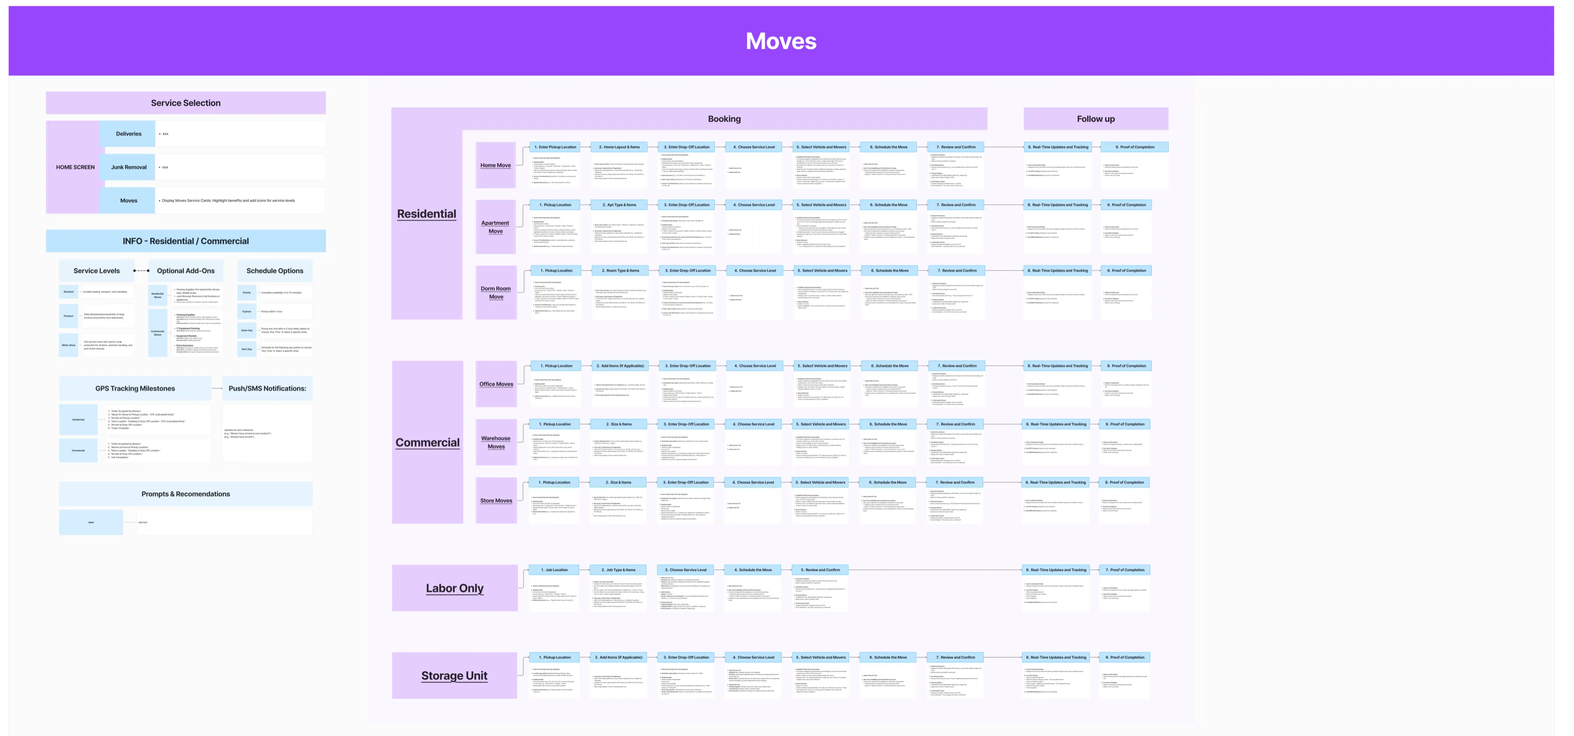
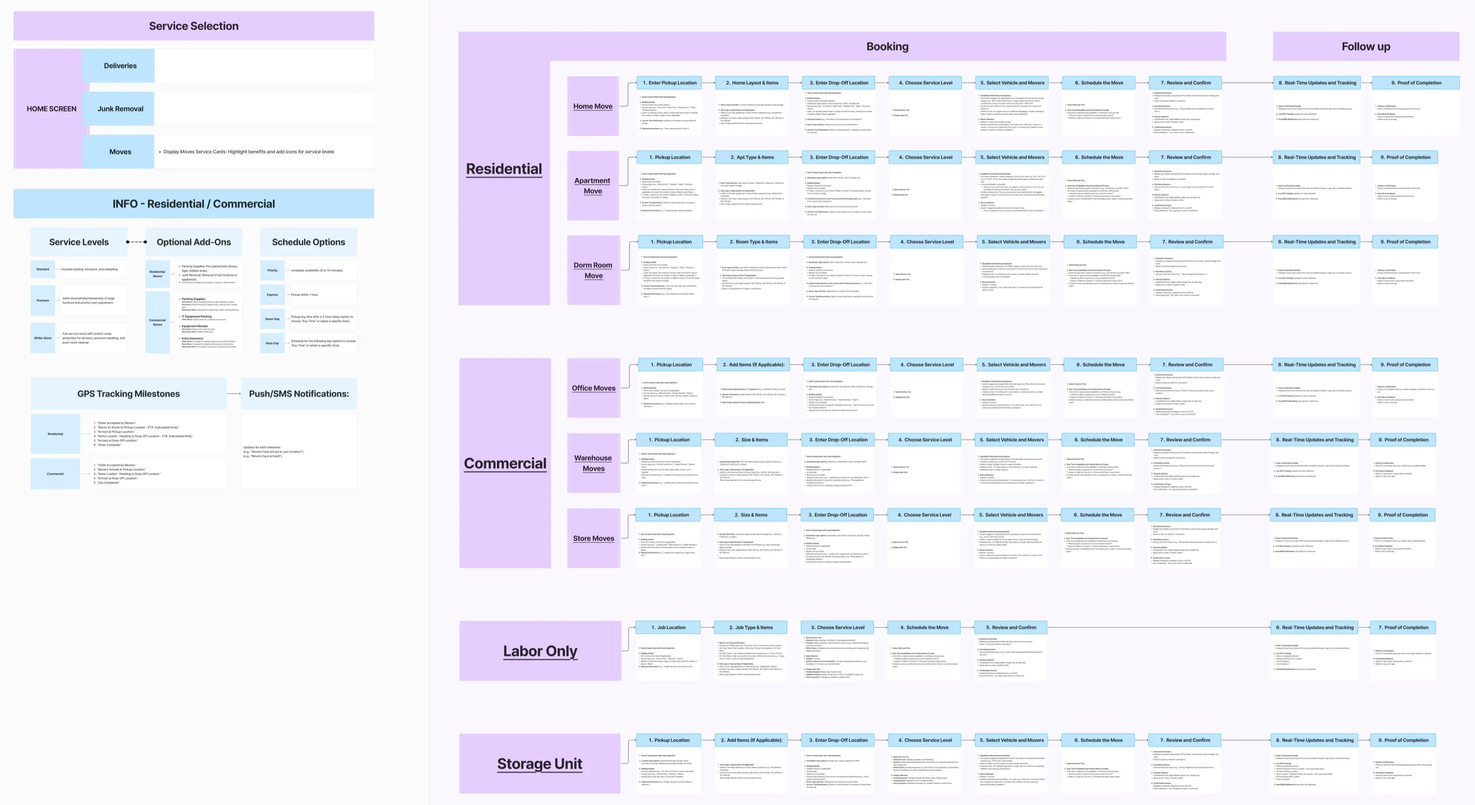
Muvr: new covers, annotated FigJam boards, typographic polish, home card
- Case cover and share image re-rendered with framed phones: User app (move type,
  home) and Driver app (onboarding dashboard, accepted submission); no purple screen
- Mobile gets its own cover crop, so no half phones at the edges
- Home page: Muvr card gets a cover in the same style as Crypex, new title and copy
  (index.html Muvr card only; pt-BR in assets/i18n/pt/index.js)
- FigJam boards: cropped to content, placeholders hidden, shown in a titled window
  with numbered pins and a legend explaining each area; one-row close-up
- Balanced headings, no orphans or split compound words, act titles on two lines,
  wide-feature labels on their own row with title and body aligned beneath

diff --git a/work/muvr.html b/work/muvr.html
@@ -36,7 +36,7 @@
   <link rel="stylesheet" href="../assets/css/identity.css?v=24">
   <link rel="stylesheet" href="../assets/css/case.css?v=1">
   <link rel="stylesheet" href="../assets/css/case-crypex.css?v=3">
-  <link rel="stylesheet" href="../assets/css/case-muvr.css?v=3">
+  <link rel="stylesheet" href="../assets/css/case-muvr.css?v=4">
   <script src="../assets/js/main.js?v=5" defer></script>
   <script src="../assets/js/case-crypex.js?v=6" defer></script>
 </head>
@@ -96,22 +96,11 @@
 
       <div class="case-cover">
         <div class="frame">
-          <span class="frame__label"><b>Cover</b> Muvr <span class="dim">User app + Driver app · 375</span></span>
+          <span class="frame__label"><b>Cover</b> Muvr <span class="dim">User app + Driver app</span></span>
           <div class="case__thumb mv-cover">
-            <figure class="mv-cover__end mv-cover__end--user">
-              <figcaption>User app</figcaption>
-              <img src="../assets/img/muvr/type-home.webp" width="750" height="1624" alt="User app: the Home Move page, with the first question on top and the Standard, Premium and White-Glove levels compared below.">
-              <img src="../assets/img/muvr/home.webp" width="750" height="1624" alt="User app home: moves grouped as residential and commercial, each with its own illustration.">
-            </figure>
-            <div class="mv-cover__center">
-              <img src="../assets/img/muvr/logo-white.webp" width="211" height="77" alt="Muvr">
-              <p>One move · two apps</p>
-            </div>
-            <figure class="mv-cover__end mv-cover__end--driver">
-              <figcaption>Driver app</figcaption>
-              <img src="../assets/img/muvr/crew-welcome.webp" width="750" height="1624" alt="Driver app welcome: a friendly character with flags on Muvr purple and a Begin button.">
-              <img src="../assets/img/muvr/crew-dashboard-progress.webp" width="750" height="1624" alt="Driver app onboarding dashboard at 60%, with one recommended next step.">
-            </figure>
+            <picture><source media="(max-width: 560px)" srcset="../assets/img/muvr/cover-page-m.webp" width="1200" height="900"><img class="mv-cover__img" src="../assets/img/muvr/cover-page.webp" width="2400" height="1200" alt="The Muvr wordmark in the middle; on the left, two screens of the User app, a move type and the home; on the right, two screens of the Driver app, the onboarding dashboard and an accepted submission."></picture>
+            <span class="mv-cover__tag mv-cover__tag--user">User app</span>
+            <span class="mv-cover__tag mv-cover__tag--driver">Driver app</span>
           </div>
         </div>
       </div>
@@ -141,7 +130,7 @@
         <header class="cx-head">
           <span class="cx-num">01</span>
           <p class="cx-kicker">Overview</p>
-          <h2 id="cx-overview" class="display cx-h2">Same move, two different <em>jobs</em></h2>
+          <h2 id="cx-overview" class="display cx-h2">Same move, two&nbsp;different&nbsp;<em>jobs</em></h2>
         </header>
         <div class="cx-prose cx-prose--wide">
           <p>A move looks like one event, but it's two very different experiences. For the person moving, it's a stressful day they want off their plate. For the driver, it's work: getting approved, taking the job, getting paid. So Muvr runs two apps, and each one had to be designed for its own person.</p>
@@ -213,23 +202,53 @@
             <h3 class="cx-h3">The boards behind it</h3>
             <p class="cx-note">From my FigJam files.</p>
           </div>
-          <div class="mv-boards">
-            <figure class="frame mv-board mv-board--wide">
-              <span class="frame__label"><b>FigJam</b> Booking journey · User app</span>
-              <a class="mv-board__img" href="../assets/img/muvr/fj-journey.webp" target="_blank" rel="noopener"><img src="../assets/img/muvr/fj-journey.webp" width="3200" height="1497" alt="The booking journey board: service selection and business rules on the left; on the right, one row per move type, residential, commercial, labor only and storage, each broken into nine steps with notes under every step." loading="lazy"></a>
-              <figcaption><span>Eight move types, nine steps each, with what every step asks and what the system does with it.</span><a href="../assets/img/muvr/fj-journey.webp" target="_blank" rel="noopener">Open the full board <span aria-hidden="true">↗</span></a></figcaption>
-            </figure>
-            <figure class="frame mv-board">
-              <span class="frame__label"><b>Detail</b> One row, up close</span>
-              <a class="mv-board__img" href="../assets/img/muvr/fj-journey-row.webp" target="_blank" rel="noopener"><img src="../assets/img/muvr/fj-journey-row.webp" width="3200" height="839" alt="Close-up of the home move row: pickup, home layout and items, drop-off, service level, vehicle and movers, schedule, review, live tracking and proof of completion, each with its rules." loading="lazy"></a>
-              <figcaption><span>A home move, step by step: the questions, the rules and the suggestions the system makes.</span><a href="../assets/img/muvr/fj-journey-row.webp" target="_blank" rel="noopener">Open <span aria-hidden="true">↗</span></a></figcaption>
-            </figure>
-            <figure class="frame mv-board">
-              <span class="frame__label"><b>FigJam</b> Home and orders · Driver app</span>
-              <a class="mv-board__img" href="../assets/img/muvr/fj-orders.webp" target="_blank" rel="noopener"><img src="../assets/img/muvr/fj-orders.webp" width="3000" height="2052" alt="The driver home and orders board: context and references on the left, then the app structure, wireframes of the map and order status, and the order card in four states, with open questions beside them." loading="lazy"></a>
-              <figcaption><span>Context, app structure, order-card states and the questions still open.</span><a href="../assets/img/muvr/fj-orders.webp" target="_blank" rel="noopener">Open <span aria-hidden="true">↗</span></a></figcaption>
-            </figure>
-          </div>
+
+          <figure class="mv-bd">
+            <div class="mv-bd__bar">
+              <span class="mv-bd__app tag tag--lilac">User app</span>
+              <b>Booking journey</b>
+              <a href="../assets/img/muvr/fj-journey.webp" target="_blank" rel="noopener">Open full size <span aria-hidden="true">↗</span></a>
+            </div>
+            <div class="mv-bd__body">
+              <div class="mv-bd__canvas">
+                <a class="mv-bd__img" href="../assets/img/muvr/fj-journey.webp" target="_blank" rel="noopener"><img src="../assets/img/muvr/fj-journey.webp" width="3000" height="1638" alt="The booking journey board: service selection, service rules and tracking on the left; on the right, one row per move type, each broken into nine steps, and a follow-up column." loading="lazy"></a>
+                <span class="mv-pin" style="left: 1.1%; top: 1.6%;" aria-hidden="true">1</span><span class="mv-pin" style="left: 1.1%; top: 24%;" aria-hidden="true">2</span><span class="mv-pin" style="left: 2.2%; top: 47.6%;" aria-hidden="true">3</span><span class="mv-pin" style="left: 31.4%; top: 17.4%;" aria-hidden="true">4</span><span class="mv-pin" style="left: 31.4%; top: 77.4%;" aria-hidden="true">5</span><span class="mv-pin" style="left: 86.5%; top: 4.4%;" aria-hidden="true">6</span>
+              </div>
+              <ol class="mv-bd__legend">
+                <li><b>Service selection</b><span>Where booking begins: moves, deliveries and junk removal on one home screen.</span></li>
+                <li><b>Rules of the service</b><span>Service levels, add-ons for homes and businesses, and schedule options, agreed before any screen.</span></li>
+                <li><b>On the day</b><span>Tracking milestones and push or SMS messages, different for homes and businesses.</span></li>
+                <li><b>One row per move type</b><span>The same nine steps for every move, with what each step asks and what the system does with the answer.</span></li>
+                <li><b>The short path</b><span>Labor only skips the drive and takes seven steps.</span></li>
+                <li><b>Follow-up</b><span>Live tracking and proof of completion, shared by every move type.</span></li>
+              </ol>
+            </div>
+            <figcaption class="mv-bd__zoom">
+              <p class="cx-label">Up close · a home move</p>
+              <a class="mv-bd__img" href="../assets/img/muvr/fj-journey-row.webp" target="_blank" rel="noopener"><img src="../assets/img/muvr/fj-journey-row.webp" width="3200" height="909" alt="Close-up of the home, apartment and dorm-room rows: pickup, layout and items, drop-off, service level, vehicle and movers, schedule, review, live tracking and proof of completion, each with its rules." loading="lazy"></a>
+            </figcaption>
+          </figure>
+
+          <figure class="mv-bd mv-bd--driver">
+            <div class="mv-bd__bar">
+              <span class="mv-bd__app tag tag--mint">Driver app</span>
+              <b>Home and orders</b>
+              <a href="../assets/img/muvr/fj-orders.webp" target="_blank" rel="noopener">Open full size <span aria-hidden="true">↗</span></a>
+            </div>
+            <div class="mv-bd__body">
+              <div class="mv-bd__canvas">
+                <a class="mv-bd__img" href="../assets/img/muvr/fj-orders.webp" target="_blank" rel="noopener"><img src="../assets/img/muvr/fj-orders.webp" width="3000" height="1507" alt="The driver home and orders board: context and references on the left; then the app structure, the order flow with its open questions, and the order card in four states." loading="lazy"></a>
+                <span class="mv-pin" style="left: 2%; top: 12.4%;" aria-hidden="true">1</span><span class="mv-pin" style="left: 28%; top: 11.9%;" aria-hidden="true">2</span><span class="mv-pin" style="left: 28%; top: 42.8%;" aria-hidden="true">3</span><span class="mv-pin" style="left: 63.5%; top: 45.3%;" aria-hidden="true">4</span><span class="mv-pin" style="left: 28%; top: 76.6%;" aria-hidden="true">5</span>
+              </div>
+              <ol class="mv-bd__legend">
+                <li><b>Context</b><span>The brief on one page: revamp home and orders, keep accepting and finishing a job easy, and learn from Uber and Lyft.</span></li>
+                <li><b>App structure</b><span>Wireframes for the online and offline views, earnings and the menu, with everything the old app had to keep.</span></li>
+                <li><b>The job, step by step</b><span>From the map to the current order card, with the actions each status needs: navigate, chat, cancel, report an issue.</span></li>
+                <li><b>Open questions</b><span>Pinned beside the flow, to settle with the team before the next round.</span></li>
+                <li><b>Order card</b><span>Four states as the job gets closer: tomorrow, today, now and on the way.</span></li>
+              </ol>
+            </div>
+          </figure>
         </div>
 
         <aside class="cx-honest">
@@ -732,7 +751,7 @@
         <div class="cx-split">
           <div class="cx-prose">
             <p>The feedback on the work was good. When I handed over, both apps had their core flows designed, with components and states, and the booking journey was mapped end to end for every move type.</p>
-            <p>The next phase called for a different kind of engagement, a full-time, day-to-day role inside the team. For that particular setup, the terms and the scope didn't match, so we agreed to close my part at that milestone, on good terms, with everything documented for the team to build on.</p>
+            <p>The next phase called for a different kind of engagement, a <span class="mv-nw">full-time</span>, <span class="mv-nw">day-to-day</span> role inside the team. For that particular setup, the terms and the scope didn't match, so we agreed to close my part at that milestone, on good terms, with everything documented for the team to build on.</p>
           </div>
           <aside class="cx-card">
             <p class="cx-label">Handed over</p>

diff --git a/assets/css/case-muvr.css b/assets/css/case-muvr.css
@@ -1,5 +1,5 @@
 /* ==========================================================================
-   JM · Case 01 · Muvr — v2.0.0
+   JM · Case 01 · Muvr — v2.1.0
    Page-only layer. The case layout (.cx-*) comes from case-crypex.css, so both
    cases share one structure; this file adds what Muvr needs on top:
    the two-ends cover, the side-by-side overview, the FigJam boards, wide
@@ -10,28 +10,22 @@
 
 .mv { --mv-purple: #9506E6; --mv-purple-deep: #59048A; --mv-lilac: #F3EAFD; --mv-tile: #F5F3F8; }
 
-/* ---------- Cover: both ends of the move, the brand in the middle ---------- */
-.case-cover .mv-cover {
-  overflow: hidden;
-  background:
-    radial-gradient(42% 60% at 50% 46%, rgba(190, 90, 250, 0.55) 0, transparent 70%),
-    linear-gradient(135deg, #7A05C4 0%, var(--mv-purple) 48%, #6A04B3 100%);
-}
-.mv-cover__center { position: absolute; left: 37%; right: 37%; top: 0; bottom: 0; display: grid; place-content: center; justify-items: center; gap: var(--sp-4); text-align: center; }
-.mv-cover__center img { width: clamp(110px, 13vw, 180px); height: auto; }
-.mv-cover__center p { font-family: var(--font-mono); font-size: 11px; letter-spacing: var(--tracking-wide); text-transform: uppercase; color: #FFFFFF; }
-.mv-cover__end { position: absolute; top: 8%; width: 34%; margin: 0; display: grid; grid-template-columns: repeat(2, minmax(0, 1fr)); gap: 0 6%; align-content: start; }
-.mv-cover__end--user { left: 2.5%; }
-.mv-cover__end--driver { right: 2.5%; }
-.mv-cover__end figcaption {
-  grid-column: 1 / -1; justify-self: center; margin-bottom: var(--sp-4); padding: 4px 10px;
-  font-family: var(--font-mono); font-size: 10px; letter-spacing: 0.08em; text-transform: uppercase; color: var(--ink-900);
+/* ---------- Cover: one rendered image, the two app tags set in HTML ---------- */
+.case-cover .mv-cover { overflow: hidden; background: #8A06D8; }
+.mv-cover picture { position: absolute; inset: 0; }
+.mv-cover__img { position: absolute; inset: 0; width: 100%; height: 100%; object-fit: cover; }
+.mv-cover__tag {
+  position: absolute; top: 6%; transform: translateX(-50%); padding: 4px 10px;
+  font-family: var(--font-mono); font-size: 10px; line-height: 1.4; letter-spacing: 0.08em; text-transform: uppercase; color: var(--ink-900); white-space: nowrap;
   background: var(--sticky-lilac); border: 1px solid var(--ink-900); border-radius: var(--radius-full); box-shadow: 1.5px 1.5px 0 var(--ink-900);
 }
-.mv-cover__end--driver figcaption { background: var(--sticky-mint); }
-.mv-cover__end img { width: 100%; height: auto; border-radius: 9% / 4.2%; outline: 1.5px solid rgba(255, 255, 255, 0.5); outline-offset: -1px; box-shadow: 0 26px 40px -16px rgba(30, 0, 60, 0.6); }
-/* outer phones sit lower, inner phones lean toward the brand */
-.mv-cover__end--user img:nth-of-type(1), .mv-cover__end--driver img:nth-of-type(2) { margin-top: 16%; }
+.mv-cover__tag--user { left: 21%; }
+.mv-cover__tag--driver { left: 78.5%; background: var(--sticky-mint); }
+
+/* ---------- Typography: balanced headings, no orphans in body copy ---------- */
+.mv-nw { white-space: nowrap; }
+.mv h1, .mv h2, .mv h3, .mv .cx-h3, .mv figcaption b, .mv .mv-end dd, .mv .cx-steps p, .mv-bd__legend b { text-wrap: balance; }
+.mv p, .mv li, .mv figcaption span, .mv-bd__legend span { text-wrap: pretty; }
 
 /* ---------- Screens: Muvr exports are square, so the page rounds them ---------- */
 .mv .cx-strip img, .mv .cx-feature__shots img {
@@ -54,28 +48,47 @@
 .mv-role { margin-top: var(--sp-8); }
 .mv-role .cx-label { margin-bottom: var(--sp-3); }
 
-/* ---------- FigJam boards ---------- */
-.mv-boards { display: grid; grid-template-columns: repeat(2, minmax(0, 1fr)); gap: var(--sp-7) var(--sp-6); margin-top: var(--sp-2); }
-.mv-board { position: relative; margin: 0; padding: var(--sp-4); background: var(--color-bg-elevated); box-shadow: var(--shadow-hard-lg); display: grid; gap: var(--sp-4); align-content: start; }
-.mv-board--wide { grid-column: 1 / -1; }
-.mv-board .frame__label { position: absolute; top: auto; bottom: calc(100% + 6px); left: 0; }
-.mv-board__img { display: block; border-radius: var(--radius-2); overflow: hidden; border: 1px solid var(--color-border); background: #FAFAFA; }
-.mv-board__img img { display: block; width: 100%; height: auto; transition: transform var(--dur-4) var(--ease-standard); }
-@media (hover: hover) and (pointer: fine) { .mv-board__img:hover img { transform: scale(1.02); } }
-.mv-board__img:focus-visible { outline: 2px solid var(--color-focus); outline-offset: 3px; }
-.mv-board figcaption { display: flex; flex-wrap: wrap; justify-content: space-between; align-items: baseline; gap: var(--sp-2) var(--sp-5); font-size: var(--fs-14); color: var(--color-text-muted); }
-.mv-board figcaption a { font-family: var(--font-mono); font-size: 11px; letter-spacing: 0.06em; text-transform: uppercase; color: var(--color-accent-text); white-space: nowrap; }
+/* ---------- FigJam boards: a titled window, numbered pins and a legend ---------- */
+.mv-bd { margin: 0; border: 1px solid var(--color-border-strong); border-radius: var(--radius-3); background: var(--color-bg-elevated); box-shadow: var(--shadow-hard-lg); overflow: hidden; }
+.mv-bd + .mv-bd { margin-top: var(--sp-7); }
+.mv-bd__bar { display: flex; align-items: center; gap: var(--sp-3); padding: var(--sp-3) var(--sp-5); border-bottom: 1px solid var(--color-border-strong); background: var(--color-bg); }
+.mv-bd__bar b { font-weight: 600; font-size: var(--fs-14); }
+.mv-bd__bar a { margin-left: auto; font-family: var(--font-mono); font-size: 11px; letter-spacing: 0.06em; text-transform: uppercase; color: var(--color-accent-text); white-space: nowrap; }
+.mv-bd__body { display: grid; grid-template-columns: minmax(0, 8fr) minmax(0, 3.4fr); }
+.mv-bd__canvas { position: relative; margin: var(--sp-5); align-self: start; }
+.mv-bd__img { display: block; border-radius: var(--radius-2); overflow: hidden; border: 1px solid var(--color-border); background: #FAFAFA; }
+.mv-bd__img img { display: block; width: 100%; height: auto; }
+.mv-bd__img:focus-visible { outline: 2px solid var(--color-focus); outline-offset: 3px; }
+.mv-pin {
+  position: absolute; display: grid; place-items: center; width: 24px; height: 24px; transform: translate(-30%, -30%);
+  font-family: var(--font-mono); font-size: 11px; line-height: 1; color: var(--ink-900);
+  background: var(--sticky-lilac); border: 1px solid var(--ink-900); border-radius: 50%; box-shadow: 1.5px 1.5px 0 var(--ink-900); pointer-events: none;
+}
+.mv-bd--driver .mv-pin { background: var(--sticky-mint); }
+.mv-bd__legend { list-style: none; margin: 0; padding: var(--sp-5) var(--sp-5) var(--sp-5) var(--sp-5); counter-reset: pin; display: grid; gap: var(--sp-4); align-content: start; border-left: 1px dashed var(--color-border); }
+.mv-bd__legend li { counter-increment: pin; display: grid; grid-template-columns: 24px 1fr; column-gap: var(--sp-3); row-gap: 2px; }
+.mv-bd__legend li::before {
+  content: counter(pin); grid-row: 1 / span 2; display: grid; place-items: center; width: 24px; height: 24px;
+  font-family: var(--font-mono); font-size: 11px; color: var(--ink-900); background: var(--sticky-lilac); border: 1px solid var(--ink-900); border-radius: 50%;
+}
+.mv-bd--driver .mv-bd__legend li::before { background: var(--sticky-mint); }
+.mv-bd__legend b { font-size: var(--fs-14); font-weight: 600; line-height: 1.4; padding-top: 2px; }
+.mv-bd__legend span { grid-column: 2; font-size: var(--fs-13); line-height: 1.5; color: var(--color-text-muted); }
+.mv-bd__zoom { margin: 0; padding: var(--sp-5); border-top: 1px dashed var(--color-border); display: grid; gap: var(--sp-3); }
 
 /* ---------- Acts: the kicker becomes the app's badge ---------- */
 .mv-app .cx-kicker { justify-self: start; padding: 4px 10px; border: 1px solid var(--ink-900); border-radius: var(--radius-full); color: var(--ink-900); }
 .mv .mv-app--user .cx-kicker, .mv .mv-app--user .cx-num { background: var(--sticky-lilac); }
 .mv .mv-app--driver .cx-kicker, .mv .mv-app--driver .cx-num { background: var(--sticky-mint); }
-.mv-app .cx-h2 { max-width: 20ch; }
+.mv .cx-h2 { max-width: 24ch; }
 
 /* ---------- Wide features: text on top, screens large below ---------- */
 .mv-feature { margin-top: var(--sp-9); }
-.mv-feature__text { display: grid; grid-template-columns: minmax(0, 5fr) minmax(0, 7fr); gap: var(--sp-8); align-items: start; margin-bottom: var(--sp-6); }
-.mv-feature__text .cx-label { margin-bottom: var(--sp-3); }
+.mv-feature__text { display: grid; grid-template-columns: minmax(0, 5fr) minmax(0, 7fr); column-gap: var(--sp-8); row-gap: var(--sp-3); align-items: start; margin-bottom: var(--sp-7); }
+.mv-feature__text > div { display: contents; }
+.mv-feature__text .cx-label { grid-column: 1 / -1; margin: 0; }
+.mv-feature__text .cx-h3 { grid-column: 1; }
+.mv-feature__text > ul, .mv-feature__text > p { grid-column: 2; padding-top: 4px; }
 .mv-feature__text > p { color: var(--color-text-muted); max-width: 60ch; }
 .mv .cx-feature__shots.mv-shots--3 { grid-template-columns: repeat(3, minmax(0, 1fr)); gap: var(--sp-7); padding: var(--sp-7) var(--sp-8); }
 .mv-shots--3 img:nth-child(2) { margin-top: var(--sp-6); }
@@ -168,20 +181,21 @@
   .mv-kit__group { grid-template-columns: 1fr; gap: var(--sp-4); }
 }
 @media (max-width: 860px) {
-  .mv-ends, .mv-boards, .mv-feature__text { grid-template-columns: 1fr; }
-  .mv-feature__text { gap: var(--sp-4); }
+  .mv-ends, .mv-feature__text, .mv-bd__body { grid-template-columns: 1fr; }
+  .mv-feature__text > ul, .mv-feature__text > p, .mv-feature__text .cx-h3 { grid-column: 1; }
+  .mv-feature__text { row-gap: var(--sp-4); }
+  .mv-bd__legend { border-left: 0; border-top: 1px dashed var(--color-border); }
   .mv-doubts { grid-template-columns: 1fr; max-width: 420px; }
   .mv-measure .cx-roadmap { grid-template-columns: 1fr; }
 }
 @media (max-width: 560px) {
-  .case-cover .mv-cover { background: linear-gradient(160deg, #7A05C4 0%, var(--mv-purple) 50%, #6A04B3 100%); }
-  .mv-cover__center { left: 0; right: 0; bottom: auto; height: 26%; gap: var(--sp-2); }
-  .mv-cover__center img { width: 88px; }
-  .mv-cover__center p { display: none; }
-  .mv-cover__end { top: 28%; width: 43%; gap: 0 8%; }
-  .mv-cover__end--user { left: 4.5%; }
-  .mv-cover__end--driver { right: 4.5%; }
-  .mv-cover__end figcaption { font-size: 8.5px; padding: 2px 7px; margin-bottom: var(--sp-2); white-space: nowrap; }
+  .mv-cover__tag { top: 16.5%; font-size: 8.5px; padding: 2px 7px; }
+  .mv-cover__tag--user { left: 30%; }
+  .mv-cover__tag--driver { left: 70%; }
+  .mv-bd__canvas { margin: var(--sp-3); }
+  .mv-pin { width: 18px; height: 18px; font-size: 9px; }
+  .mv-bd__bar { flex-wrap: wrap; padding: var(--sp-3) var(--sp-4); }
+  .mv-bd__legend, .mv-bd__zoom { padding: var(--sp-4); }
   .mv-end dl div { grid-template-columns: 1fr; gap: 2px; }
   .mv-end header, .mv-end dl { padding-inline: var(--sp-5); }
   .mv-journey { padding: var(--sp-5); }
@@ -193,5 +207,4 @@
   .mv-orders__steps { grid-template-columns: 1fr; }
   .mv-kit { padding: var(--sp-5) var(--sp-4) var(--sp-3); }
   .mv-kit__tiles { grid-template-columns: 1fr; }
-  .mv-board { padding: var(--sp-3); }
 }

diff --git a/assets/i18n/pt/muvr.js b/assets/i18n/pt/muvr.js
@@ -146,7 +146,7 @@ window.JM_PT = Object.assign(window.JM_PT || {}, {
  "jw0wh1": "<span>04</span> App do motorista",
  "gawozy": "<span>05</span> Design system",
  "1uga8ee": "<span>06</span> Resultado",
- "zyj4ns": "A mesma mudança, dois <em>trabalhos</em> diferentes",
+ "98dmyu": "A mesma mudança, dois&nbsp;<em>trabalhos</em>&nbsp;diferentes",
  "fvfik8": "Uma mudança parece um único evento, mas são duas experiências bem diferentes. Para quem se muda, é um dia estressante que a pessoa quer tirar das costas. Para o motorista, é trabalho: ser aprovado, pegar o serviço, receber. Por isso o Muvr tem dois apps, e cada um precisava ser desenhado para a sua pessoa.",
  "6kwde2": "Para quem vai se mudar",
  "139f0hb": "Quem",
@@ -339,7 +339,7 @@ window.JM_PT = Object.assign(window.JM_PT || {}, {
  "1ehc1m": "Antes de pagar pela verificação de antecedentes, o app mostra o número do Social Security inteiro para o motorista confirmar. Os quatro últimos dígitos bastam para confirmar, e ninguém olhando por cima do ombro leva o número todo.",
  "7s5n00": "Entregue com o mapa inteiro <em>desenhado</em>",
  "1gh77j2": "O retorno sobre o trabalho foi bom. Quando entreguei, os dois apps estavam com os fluxos principais desenhados, com componentes e estados, e a jornada de agendamento estava mapeada de ponta a ponta para todos os tipos de mudança.",
- "1nov3ah": "A fase seguinte pedia outro tipo de contrato, uma função em tempo integral, no dia a dia do time. Para aquele formato em específico, as condições e o escopo não se encaixavam, então combinamos encerrar a minha parte naquele marco, em bons termos, com tudo documentado para o time seguir.",
+ "1tfzuj1": "A fase seguinte pedia outro tipo de contrato, uma função em tempo integral, no dia a dia do time. Para aquele formato em específico, as condições e o escopo não se encaixavam, então combinamos encerrar a minha parte naquele marco, em bons termos, com tudo documentado para o time seguir.",
  "sifnap": "Entregue",
  "15d7osg": "Jornada de agendamento, os oito tipos de mudança",
  "dusu7p": "Etapas 1 a 3 do agendamento, desenhadas para cada um",
@@ -391,5 +391,35 @@ window.JM_PT = Object.assign(window.JM_PT || {}, {
  "tu9ye": "Linhas de item: geladeira e máquina de lavar, cada uma com medidas, faixa de peso, remover e enviar fotos.",
  "17p5zmj": "Categorias de ajuda: onboarding, papéis, contato e suporte, requisitos, opcionais e verificação.",
  "1nualzm": "Card de ticket com o status Replied to.",
- "1l1jtxk": "Ilustrações, adaptadas para a marca"
+ "1l1jtxk": "Ilustrações, adaptadas para a marca",
+ "1uyeoyp": "<b>Capa</b> Muvr <span class=\"dim\">App do usuário + app do motorista</span>",
+ "uc46a4": "Jornada de agendamento",
+ "jmrmli": "Abrir em tamanho real <span aria-hidden=\"true\">↗</span>",
+ "3dsbs2": "Seleção de serviço",
+ "1izespk": "Onde o agendamento começa: mudanças, fretes e retirada de entulho numa só home.",
+ "wkj1xl": "Regras do serviço",
+ "em8r76": "Níveis de serviço, adicionais para casas e empresas, e opções de agendamento, combinados antes de qualquer tela.",
+ "1g0c1bd": "Marcos de rastreio e mensagens por push ou SMS, diferentes para casas e empresas.",
+ "1n1ltnb": "Uma linha por tipo de mudança",
+ "6n3wq": "As mesmas nove etapas para toda mudança, com o que cada etapa pergunta e o que o sistema faz com a resposta.",
+ "ucbn6h": "O caminho curto",
+ "xcrhv1": "Só mão de obra pula o trajeto e tem sete etapas.",
+ "91gycy": "Acompanhamento",
+ "ptouna": "Rastreio ao vivo e comprovante, iguais para todos os tipos de mudança.",
+ "1izab8e": "De perto · uma mudança residencial",
+ "nnajhs": "Home e pedidos",
+ "1ghss9o": "Contexto",
+ "194qa8": "O briefing numa página: refazer a home e os pedidos, manter fácil aceitar e concluir um serviço, e aprender com Uber e Lyft.",
+ "ujm8tl": "Estrutura do app",
+ "17g9z74": "Wireframes das visões online e offline, dos ganhos e do menu, com tudo o que o app antigo precisava manter.",
+ "fhpuk8": "O serviço, passo a passo",
+ "1umlpqu": "Do mapa ao card do pedido atual, com as ações que cada status pede: navegar, conversar, cancelar, relatar um problema.",
+ "1czsc38": "Perguntas em aberto",
+ "18xifw5": "Fixadas ao lado do fluxo, para decidir com o time antes da próxima rodada.",
+ "rdun5b": "Card do pedido",
+ "ii22s0": "Quatro estados conforme o serviço se aproxima: amanhã, hoje, agora e a caminho.",
+ "yua44a": "O logo do Muvr no centro; à esquerda, duas telas do app do usuário, um tipo de mudança e a home; à direita, duas telas do app do motorista, o dashboard de onboarding e um envio aceito.",
+ "10tzggy": "O board da jornada de agendamento: seleção de serviço, regras e rastreio à esquerda; à direita, uma linha por tipo de mudança, cada uma em nove etapas, e uma coluna de acompanhamento.",
+ "11swb2c": "Detalhe das linhas de casa, apartamento e alojamento: retirada, planta e itens, entrega, nível de serviço, veículo e carregadores, agendamento, revisão, rastreio ao vivo e comprovante, cada uma com suas regras.",
+ "lv778i": "O board de home e pedidos do motorista: contexto e referências à esquerda; depois a estrutura do app, o fluxo do pedido com as perguntas em aberto, e o card do pedido em quatro estados."
 });

diff --git a/index.html b/index.html
@@ -191,31 +191,23 @@
         </div>
         <div class="work-grid">
 
-          <!-- Case 01: Muvr (real case, from the v1 Figma portfolio) -->
+          <!-- Case 01: Muvr -->
           <a class="case reveal" href="work/muvr.html" data-delay="1">
             <div class="frame case__frame">
-              <span class="frame__label"><b>Case 01</b> Marketplace app redesign <span class="dim">Mobile · 390</span></span>
+              <span class="frame__label"><b>Case 01</b> Moving marketplace <span class="dim">2 apps · 2025</span></span>
               <span class="frame__handles"><span></span></span>
               <div class="case__thumb">
-                <div class="mini mini--phone">
-                  <div class="wf-line wf-line--mid" style="height:10px;"></div>
-                  <div class="wf-line wf-line--short"></div>
-                  <div class="wf-box" style="height:52px; background: var(--sticky-mint);"></div>
-                  <div class="wf-line wf-line--long"></div>
-                  <div class="wf-line wf-line--mid"></div>
-                  <div class="wf-btn wf-btn--fill" style="margin-top:auto;"></div>
-                </div>
-                <div class="hotspot" style="left:33%; bottom:12%; width:34%; height:12%;"></div>
-                <div class="spec" style="left: 6%; top: 10%;">CUSTOMER APP · REVAMP</div>
+                <img src="assets/img/muvr/cover-card.webp?v=1" width="1200" height="750" alt="" loading="lazy" style="position: absolute; inset: 0; width: 100%; height: 100%; object-fit: cover;">
+                <div class="spec" style="left: 4%; bottom: 8%;">2 APPS · REVAMP</div>
               </div>
               <div class="case__body">
                 <div>
-                  <h3 class="case__title">Marketplace App Redesign</h3>
-                  <p class="case__desc">Muvr is an existing app going through a complete revamp. This is my contribution on the customer app redesign while on the team.</p>
-                  <div class="tags"><span class="tag tag--lilac">UI/UX</span><span class="tag">Mobile App</span><span class="tag tag--pink">Marketplace</span></div>
+                  <h3 class="case__title">Moving day, from both ends</h3>
+                  <p class="case__desc">Muvr's two apps, redesigned from the ground up: one for the person moving, one for the driver doing the move. Solo UX/UI, freelance, 2025.</p>
+                  <div class="tags"><span class="tag tag--lilac">UI/UX</span><span class="tag">Mobile App</span><span class="tag tag--pink">Marketplace</span><span class="tag tag--yellow">Revamp</span></div>
                   <span class="case__cta">View case <span class="arrow" aria-hidden="true">→</span></span>
                 </div>
-                <div class="case__meta"><span>Muvr</span><span>Customer app</span></div>
+                <div class="case__meta"><span>Muvr</span><span>User + Driver apps</span></div>
               </div>
             </div>
           </a>

diff --git a/assets/i18n/pt/index.js b/assets/i18n/pt/index.js
@@ -127,5 +127,11 @@ window.JM_PT = Object.assign(window.JM_PT || {}, {
  "1xrijq1": "Ilustração da Jess sentada no chão, usando óculos de sol de flor amarelos",
  "1bo9dl3": "Jessica Monteiro — Designer de UI/UX",
  "qhecsu": "Jessica Monteiro é designer de UI/UX com mais de 5 anos de experiência em e-commerce, apps mobile, sistemas web e fintech. Guiada por pesquisa, pensando em sistemas, construindo junto com devs.",
- "3ys644": "Diretrizes de design · v2.3.0"
+ "3ys644": "Diretrizes de design · v2.3.0",
+ "zt63yk": "<b>Case 01</b> Marketplace de mudanças <span class=\"dim\">2 apps · 2025</span>",
+ "1ov877r": "2 APPS · REVAMP",
+ "1oasd6": "O dia da mudança, pelas duas pontas",
+ "19qa5e5": "Os dois apps do Muvr, redesenhados do zero: um para quem vai se mudar, outro para o motorista que faz a mudança. UX/UI solo, freela, 2025.",
+ "rhl2s": "Revamp",
+ "2y5x1x": "Apps de usuário + motorista"
 });
